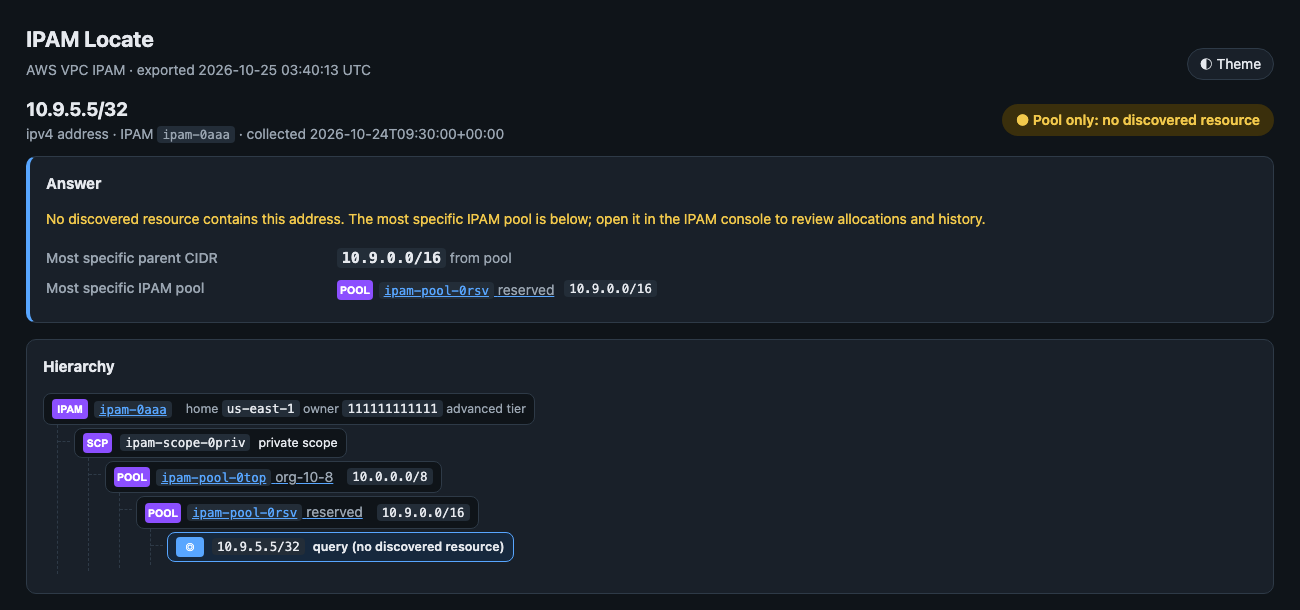
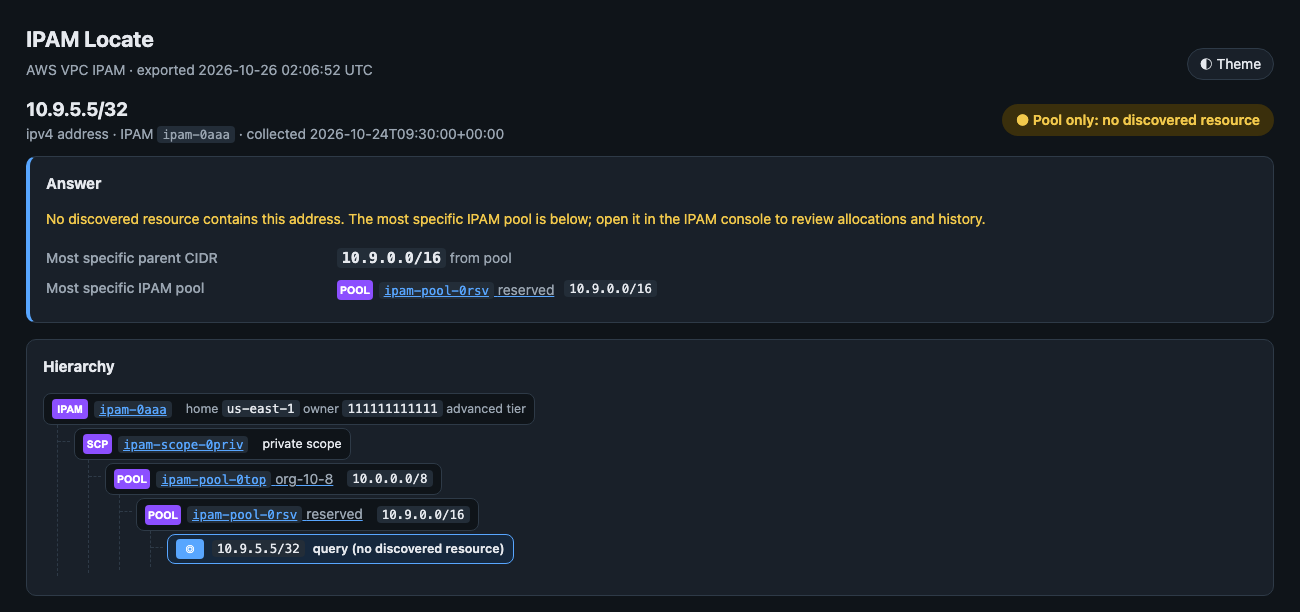
ipam_locate: fix IPAM console deep links, link scopes
The IPAM console reads capitalized keys from the URL fragment
(#PoolDetails:PoolId=, #IPAMDetails:IPAMId=, #ScopeDetails:ScopeId=).
The links used lowercase keys, so pool links opened with an empty ID and
failed with InvalidIpamPoolId.Malformed, and IPAM links didn't open the
IPAM. Use the console's own formats, link scope IDs in the hierarchy,
pin all three formats in a test, and regenerate the screenshots.

diff --git a/tools/ipam_locate/tests/test_ipam_locate.py b/tools/ipam_locate/tests/test_ipam_locate.py
@@ -180,6 +180,17 @@ def test_console_urls():
     assert core.console_url("vpc", None, "us-east-1") is None
 
 
+def test_ipam_console_urls_use_the_consoles_key_names():
+    # The IPAM console only reads capitalized keys; a lowercase poolId opens the page with an
+    # empty ID and fails with InvalidIpamPoolId.Malformed.
+    assert core.console_url("ipam", "ipam-0example", "us-east-1") == \
+        "https://us-east-1.console.aws.amazon.com/ipam/home?region=us-east-1#IPAMDetails:IPAMId=ipam-0example"
+    assert core.console_url("pool", "ipam-pool-0example", "us-east-1") == \
+        "https://us-east-1.console.aws.amazon.com/ipam/home?region=us-east-1#PoolDetails:PoolId=ipam-pool-0example"
+    assert core.console_url("scope", "ipam-scope-0example", "us-east-1") == \
+        "https://us-east-1.console.aws.amazon.com/ipam/home?region=us-east-1#ScopeDetails:ScopeId=ipam-scope-0example"
+
+
 def test_report_path_uses_owner_account(tmp_path):
     b = bundle_for("10.1.1.25")
     p = core.report_path(b, tmp_path)
@@ -195,18 +206,18 @@ def test_html_report_has_hierarchy_and_links():
     html = render_html([bundle_for("10.1.1.25")])
     assert "<script src" not in html and "<link" not in html and "http://" not in html
     for s in ("Resource found", "Hierarchy", "ipam-pool-0top", "ipam-pool-0prod", "vpc-0app", "subnet-0appa",
-              "eni-0app1", "i-0app1", "#InstanceDetails:instanceId=i-0app1", "#PoolDetails:poolId=ipam-pool-0prod"):
+              "eni-0app1", "i-0app1", "#InstanceDetails:instanceId=i-0app1", "#PoolDetails:PoolId=ipam-pool-0prod"):
         assert s in html, s
     # Tree order: top pool, then prod pool, then VPC, then instance, then the query marker.
     tree = html[html.index("<h3>Hierarchy"):]
-    order = [tree.index(s) for s in ('poolId=ipam-pool-0top"', 'poolId=ipam-pool-0prod"', "VpcId=vpc-0app",
+    order = [tree.index(s) for s in ('PoolId=ipam-pool-0top"', 'PoolId=ipam-pool-0prod"', "VpcId=vpc-0app",
                                      "instanceId=i-0app1", 'class="tn hit"')]
     assert order == sorted(order)
 
 
 def test_html_pool_only_links_to_pool():
     html = render_html([bundle_for("10.9.5.5")])
-    assert "Pool only" in html and "#PoolDetails:poolId=ipam-pool-0rsv" in html and "10.9.0.0/16" in html
+    assert "Pool only" in html and "#PoolDetails:PoolId=ipam-pool-0rsv" in html and "10.9.0.0/16" in html
 
 
 def test_html_escapes_values():
@@ -249,7 +260,7 @@ def test_cli_pool_only_summary(monkeypatch, capsys):
     monkeypatch.setattr(ipam_locate, "_ec2", lambda args: FakeEC2())
     assert ipam_locate.main(["10.9.5.5", "--no-report"]) == 0
     out = capsys.readouterr().out
-    assert "pool only" in out and "ipam-pool-0rsv  10.9.0.0/16" in out and "#PoolDetails:poolId=ipam-pool-0rsv" in out
+    assert "pool only" in out and "ipam-pool-0rsv  10.9.0.0/16" in out and "#PoolDetails:PoolId=ipam-pool-0rsv" in out
 
 
 def test_cli_bad_query_exits_1(caplog):

diff --git a/tools/ipam_locate/il_core.py b/tools/ipam_locate/il_core.py
@@ -492,8 +492,9 @@ def console_url(kind: str, rid: str | None, region: str | None, partition: str =
         "eni": f"{base}/ec2/home{q}#NetworkInterface:networkInterfaceId={rid}",
         "instance": f"{base}/ec2/home{q}#InstanceDetails:instanceId={rid}",
         "eip": f"{base}/ec2/home{q}#ElasticIpDetails:AllocationId={rid}",
-        "pool": f"{base}/ipam/home{q}#PoolDetails:poolId={rid}",
-        "ipam": f"{base}/ipam/home{q}#IpamDetails:ipamId={rid}",
+        "pool": f"{base}/ipam/home{q}#PoolDetails:PoolId={rid}",
+        "ipam": f"{base}/ipam/home{q}#IPAMDetails:IPAMId={rid}",
+        "scope": f"{base}/ipam/home{q}#ScopeDetails:ScopeId={rid}",
     }.get(kind)
 
 

diff --git a/tools/ipam_locate/il_export.py b/tools/ipam_locate/il_export.py
@@ -256,7 +256,9 @@ def render_hierarchy(b: dict, loc: dict, part: str) -> str:
     tree = []
     for arn, nodes in scope_nodes.items():
         s = scopes.get(arn) or {}
-        tree.append(_node("scope", f'<code>{_e(s.get("IpamScopeId") or arn)}</code>',
+        sid = s.get("IpamScopeId")
+        label = chip("scope", sid, home, None, part) if sid else f"<code>{_e(arn)}</code>"
+        tree.append(_node("scope", label,
                           _e(f'{s.get("IpamScopeType", "")} scope'), children=nodes))
     rest = [_cand_branch(c, query, part) for i, c in enumerate(loc["candidates"]) if i not in placed]
     if rest:

diff --git a/tools/ipam_locate/README.md b/tools/ipam_locate/README.md
@@ -55,7 +55,7 @@ IPAM   ipam-0aaa  home us-east-1  owner 111111111111  advanced tier
 Result resource found
   1. account 222222222222 · us-east-1 · vpc-0app · subnet-0appa · eni-0app1 · i-0app1  [10.1.1.25/32]
 Most specific parent  10.1.1.25/32  (from resource)
-Most specific pool    ipam-pool-0prod  10.1.0.0/17  https://us-east-1.console.aws.amazon.com/ipam/home?region=us-east-1#PoolDetails:poolId=ipam-pool-0prod
+Most specific pool    ipam-pool-0prod  10.1.0.0/17  https://us-east-1.console.aws.amazon.com/ipam/home?region=us-east-1#PoolDetails:PoolId=ipam-pool-0prod
 Pool allocation       10.1.0.0/20 -> vpc vpc-0app account 222222222222 us-east-1
 ```
 
@@ -144,10 +144,10 @@ Light theme:
 ### Console links
 
 IDs in the report link to the AWS console: VPCs, subnets, ENIs, instances and EIPs in that resource's
-Region, and IPAM pools in the IPAM home Region. A link opens in whichever account your browser session is
-signed in to, so a resource in another account needs a session in that account. The IPAM deep-link
-formats (`#PoolDetails:poolId=…`, `#IpamDetails:ipamId=…`) follow the console's URL pattern but aren't
-documented by AWS. If one doesn't open the right page, use the ID shown next to it.
+Region, and the IPAM, its scopes and pools in the IPAM home Region. A link opens in whichever account your
+browser session is signed in to, so a resource in another account needs a session in that account. AWS
+doesn't document the IPAM console's deep links; the formats used (`#IPAMDetails:IPAMId=…`,
+`#ScopeDetails:ScopeId=…`, `#PoolDetails:PoolId=…`) are the ones the console itself shows in the address bar.
 
 ### Reports folder
 
